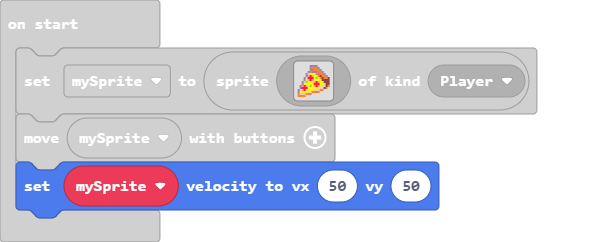
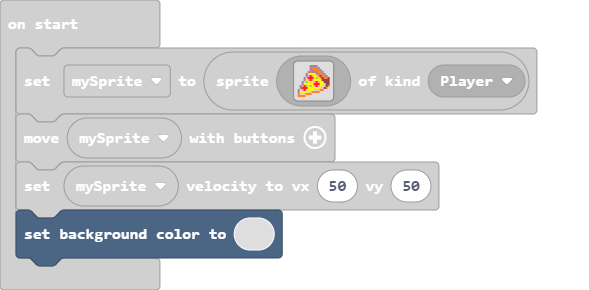
Update main.blocks, main.ts

diff --git a/main.ts b/main.ts
@@ -18,3 +18,4 @@ let mySprite = sprites.create(img`
     `, SpriteKind.Player)
 controller.moveSprite(mySprite)
 mySprite.setVelocity(50, 50)
+scene.setBackgroundColor(0)
